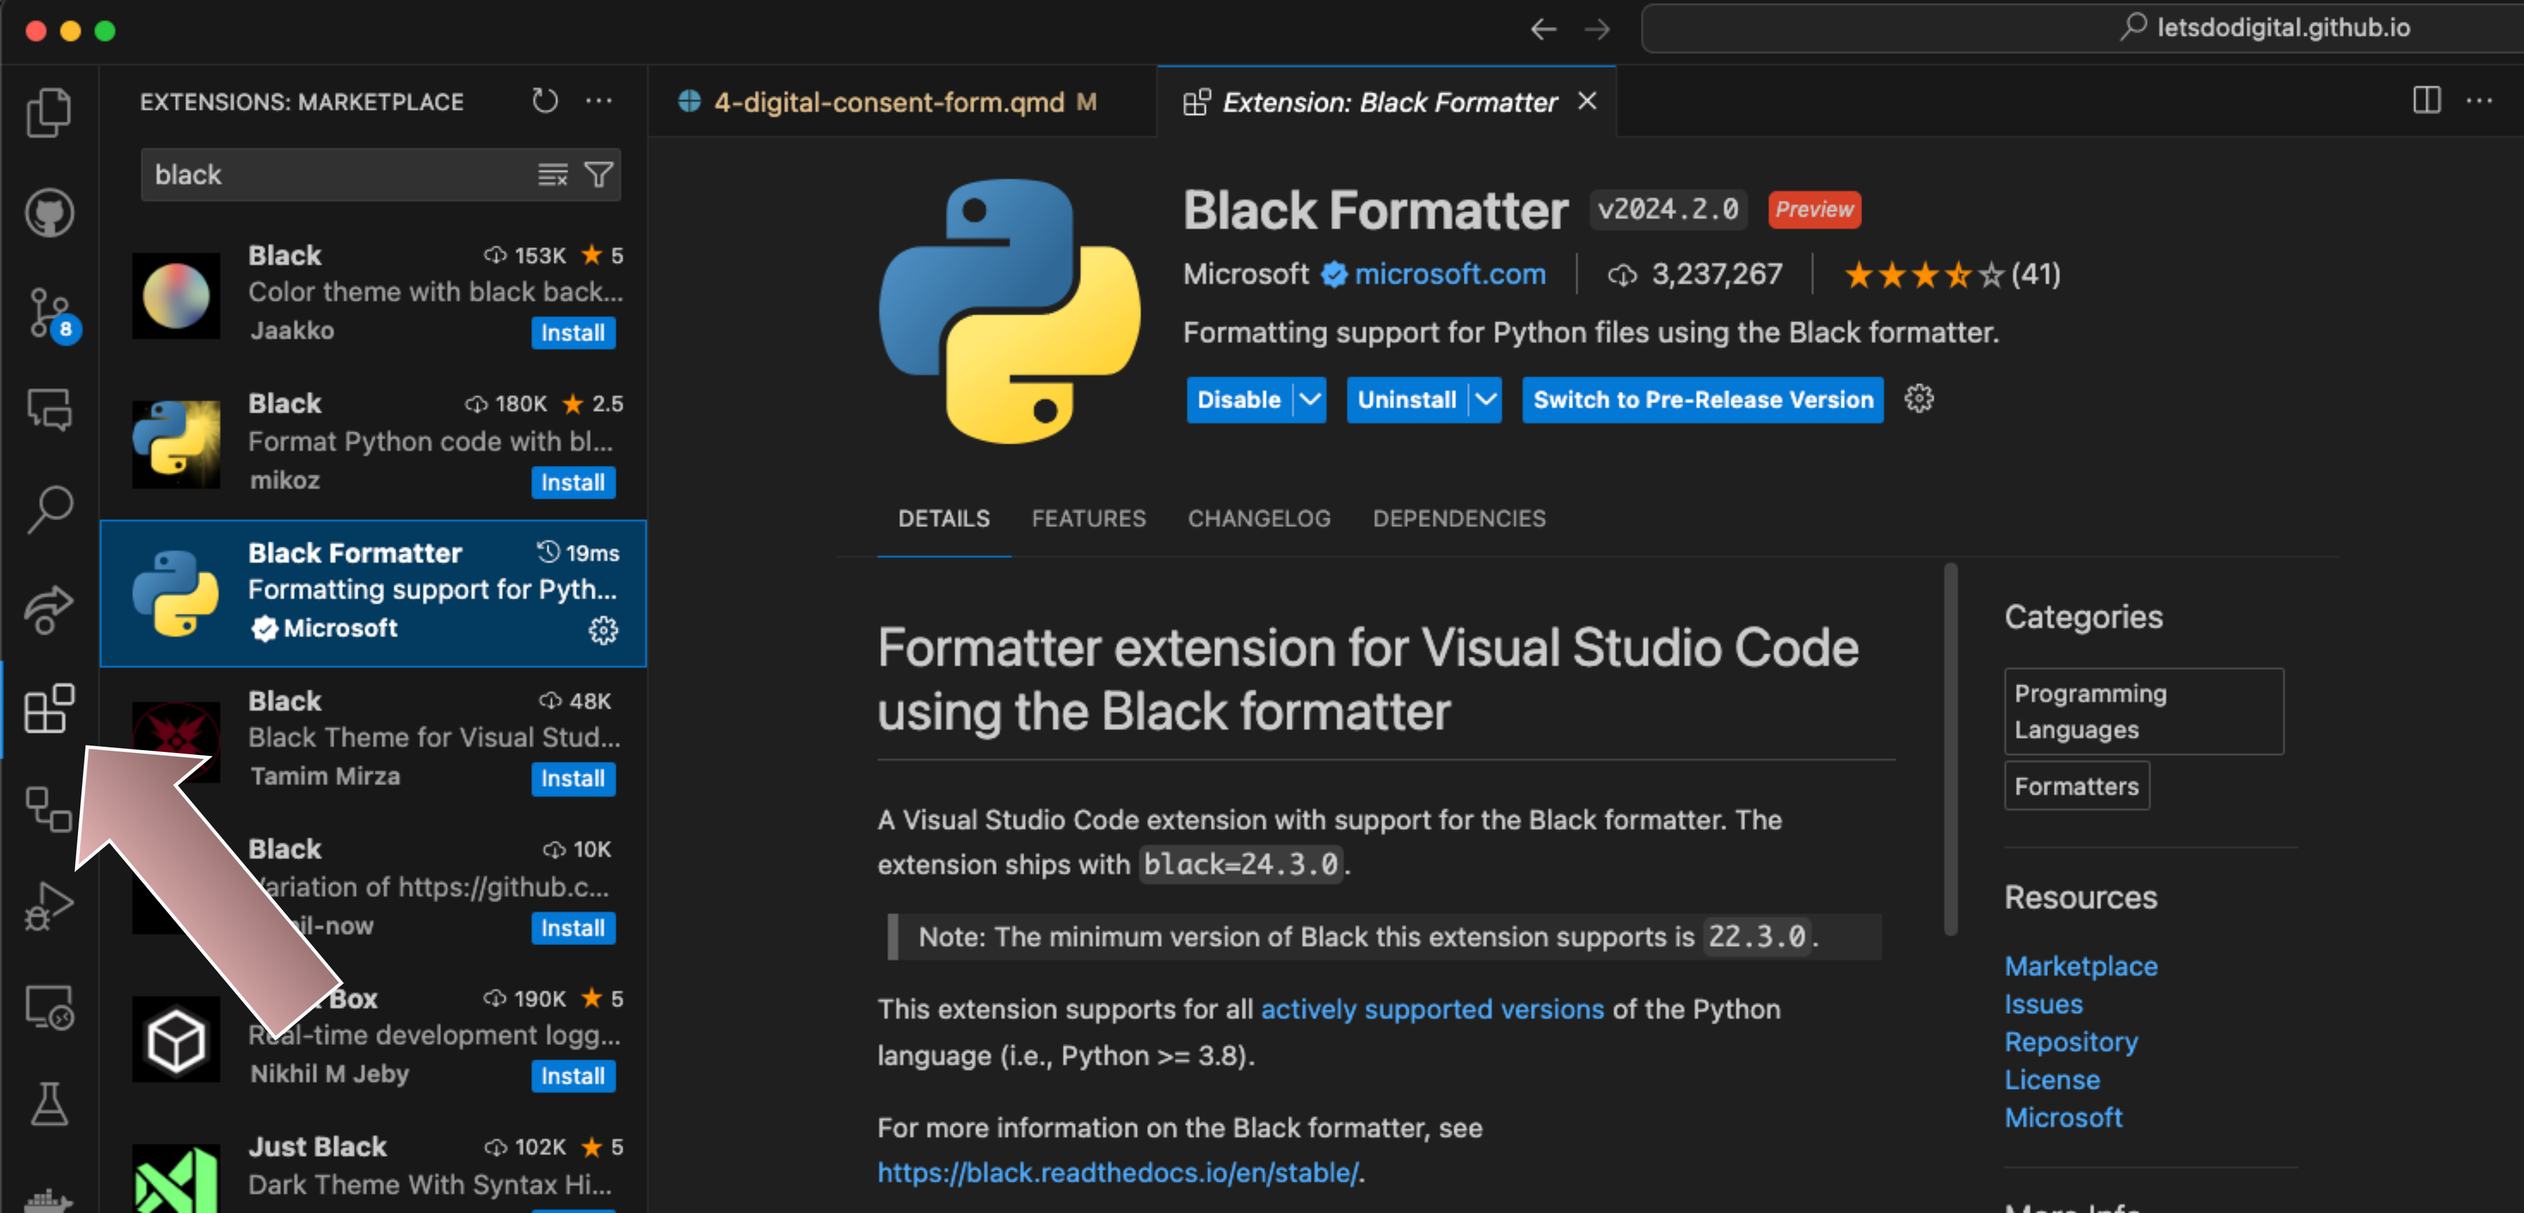
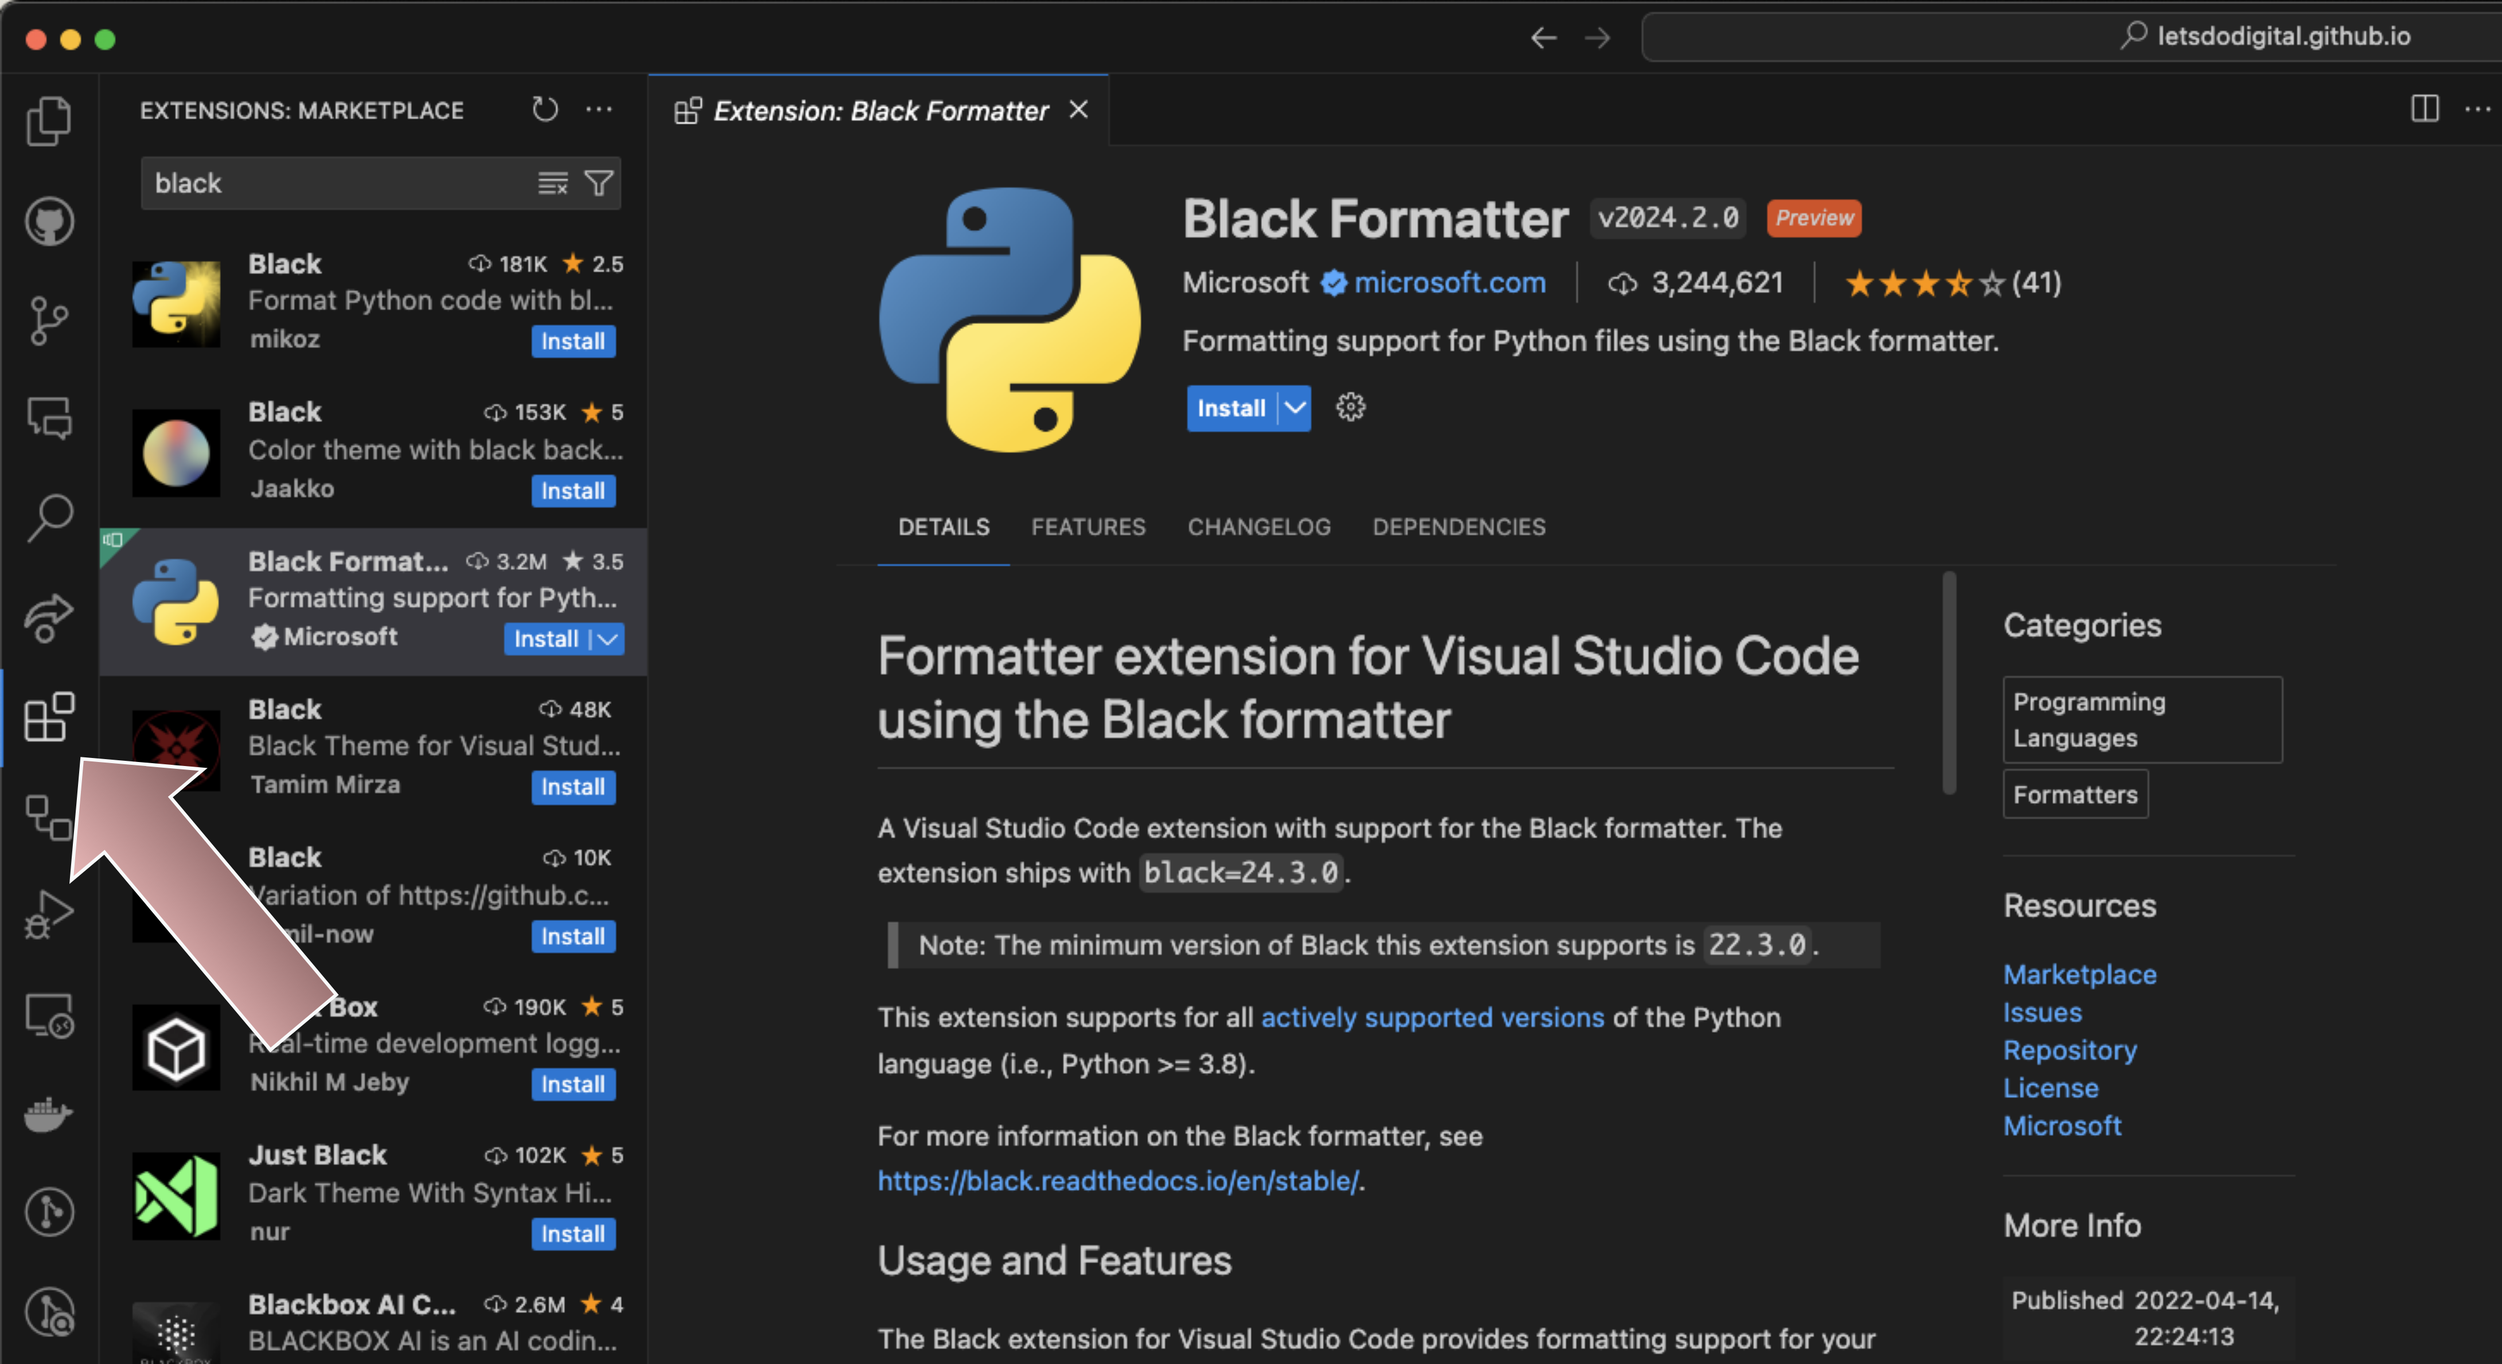
Built site for gh-pages

diff --git a/posts.html b/posts.html
@@ -220,7 +220,7 @@ window.Quarto = {
 
 <div class="quarto-listing quarto-listing-container-grid" id="listing-listing">
 <div class="list grid quarto-listing-cols-3">
-<div class="g-col-1" data-index="0" data-categories="blog" data-listing-date-sort="1721347200000" data-listing-file-modified-sort="1721747751492" data-listing-date-modified-sort="NaN" data-listing-reading-time-sort="6" data-listing-word-count-sort="1097">
+<div class="g-col-1" data-index="0" data-categories="blog" data-listing-date-sort="1721347200000" data-listing-file-modified-sort="1721750831388" data-listing-date-modified-sort="NaN" data-listing-reading-time-sort="6" data-listing-word-count-sort="1097">
 <a href="./posts/2024-07-19-when-the-anti-virus-becomes-the-virus/index.html" class="quarto-grid-link">
 <div class="quarto-grid-item card h-100 card-left">
 <p class="card-img-top">
@@ -250,7 +250,7 @@ Jul 19, 2024
 </div>
 </a>
 </div>
-<div class="g-col-1" data-index="1" data-categories="blog" data-listing-date-sort="1719878400000" data-listing-file-modified-sort="1721747751492" data-listing-date-modified-sort="NaN" data-listing-reading-time-sort="2" data-listing-word-count-sort="304">
+<div class="g-col-1" data-index="1" data-categories="blog" data-listing-date-sort="1719878400000" data-listing-file-modified-sort="1721750831388" data-listing-date-modified-sort="NaN" data-listing-reading-time-sort="2" data-listing-word-count-sort="304">
 <a href="./posts/2024-07-02-topics-for-first-10-essentials-of-health-informatics-webinars/index.html" class="quarto-grid-link">
 <div class="quarto-grid-item card h-100 card-left">
 <p class="card-img-top">
@@ -280,7 +280,7 @@ Jul 2, 2024
 </div>
 </a>
 </div>
-<div class="g-col-1" data-index="2" data-categories="blog" data-listing-date-sort="1717632000000" data-listing-file-modified-sort="1721747751492" data-listing-date-modified-sort="NaN" data-listing-reading-time-sort="2" data-listing-word-count-sort="322">
+<div class="g-col-1" data-index="2" data-categories="blog" data-listing-date-sort="1717632000000" data-listing-file-modified-sort="1721750831388" data-listing-date-modified-sort="NaN" data-listing-reading-time-sort="2" data-listing-word-count-sort="322">
 <a href="./posts/2024-06-06-handbook-of-clinical-informatics/index.html" class="quarto-grid-link">
 <div class="quarto-grid-item card h-100 card-left">
 <p class="card-img-top">
@@ -310,7 +310,7 @@ Jun 6, 2024
 </div>
 </a>
 </div>
-<div class="g-col-1" data-index="3" data-categories="blog" data-listing-date-sort="1717545600000" data-listing-file-modified-sort="1721747751492" data-listing-date-modified-sort="NaN" data-listing-reading-time-sort="11" data-listing-word-count-sort="2116">
+<div class="g-col-1" data-index="3" data-categories="blog" data-listing-date-sort="1717545600000" data-listing-file-modified-sort="1721750831388" data-listing-date-modified-sort="NaN" data-listing-reading-time-sort="11" data-listing-word-count-sort="2116">
 <a href="./posts/2024-06-05-better-than-nothing-developing-a-resource-to-support-patient-care-with-no-time-resource-or-money/index.html" class="quarto-grid-link">
 <div class="quarto-grid-item card h-100 card-left">
 <p class="card-img-top">
@@ -340,7 +340,7 @@ Jun 5, 2024
 </div>
 </a>
 </div>
-<div class="g-col-1" data-index="4" data-categories="update" data-listing-date-sort="1715644800000" data-listing-file-modified-sort="1721747751492" data-listing-date-modified-sort="NaN" data-listing-reading-time-sort="2" data-listing-word-count-sort="236">
+<div class="g-col-1" data-index="4" data-categories="update" data-listing-date-sort="1715644800000" data-listing-file-modified-sort="1721750831388" data-listing-date-modified-sort="NaN" data-listing-reading-time-sort="2" data-listing-word-count-sort="236">
 <a href="./posts/2024-05-14-student-editor-role-lets-do-digital/index.html" class="quarto-grid-link">
 <div class="quarto-grid-item card h-100 card-left">
 <p class="card-img-top">
@@ -370,7 +370,7 @@ May 14, 2024
 </div>
 </a>
 </div>
-<div class="g-col-1" data-index="5" data-categories="blog" data-listing-date-sort="1715040000000" data-listing-file-modified-sort="1721747751492" data-listing-date-modified-sort="NaN" data-listing-reading-time-sort="13" data-listing-word-count-sort="2572">
+<div class="g-col-1" data-index="5" data-categories="blog" data-listing-date-sort="1715040000000" data-listing-file-modified-sort="1721750831388" data-listing-date-modified-sort="NaN" data-listing-reading-time-sort="13" data-listing-word-count-sort="2572">
 <a href="./posts/2024-05-07-games-cheatsheets-and-the-nhs/index.html" class="quarto-grid-link">
 <div class="quarto-grid-item card h-100 card-left">
 <p class="card-img-top">
@@ -400,7 +400,7 @@ May 7, 2024
 </div>
 </a>
 </div>
-<div class="g-col-1" data-index="6" data-categories="blog" data-listing-date-sort="1713312000000" data-listing-file-modified-sort="1721747751492" data-listing-date-modified-sort="NaN" data-listing-reading-time-sort="6" data-listing-word-count-sort="1079">
+<div class="g-col-1" data-index="6" data-categories="blog" data-listing-date-sort="1713312000000" data-listing-file-modified-sort="1721750831388" data-listing-date-modified-sort="NaN" data-listing-reading-time-sort="6" data-listing-word-count-sort="1079">
 <a href="./posts/2024-04-17-why-ask-a-clinician/index.html" class="quarto-grid-link">
 <div class="quarto-grid-item card h-100 card-left">
 <p class="card-img-top">
@@ -430,7 +430,7 @@ Apr 17, 2024
 </div>
 </a>
 </div>
-<div class="g-col-1" data-index="7" data-categories="blog" data-listing-date-sort="1712707200000" data-listing-file-modified-sort="1721747751492" data-listing-date-modified-sort="NaN" data-listing-reading-time-sort="6" data-listing-word-count-sort="1165">
+<div class="g-col-1" data-index="7" data-categories="blog" data-listing-date-sort="1712707200000" data-listing-file-modified-sort="1721750831384" data-listing-date-modified-sort="NaN" data-listing-reading-time-sort="6" data-listing-word-count-sort="1165">
 <a href="./posts/2024-04-10-why-a-coding-course-and-why-now/index.html" class="quarto-grid-link">
 <div class="quarto-grid-item card h-100 card-left">
 <p class="card-img-top">
@@ -460,7 +460,7 @@ Apr 10, 2024
 </div>
 </a>
 </div>
-<div class="g-col-1" data-index="8" data-categories="Conference" data-listing-date-sort="1689120000000" data-listing-file-modified-sort="1721747751492" data-listing-date-modified-sort="NaN" data-listing-reading-time-sort="1" data-listing-word-count-sort="25">
+<div class="g-col-1" data-index="8" data-categories="Conference" data-listing-date-sort="1689120000000" data-listing-file-modified-sort="1721750831384" data-listing-date-modified-sort="NaN" data-listing-reading-time-sort="1" data-listing-word-count-sort="25">
 <a href="./posts/2023-07-12-2023-conference-is-all-done-but-more-to-come/index.html" class="quarto-grid-link">
 <div class="quarto-grid-item card h-100 card-left">
 <p class="card-img-top">
@@ -490,7 +490,7 @@ Jul 12, 2023
 </div>
 </a>
 </div>
-<div class="g-col-1" data-index="9" data-categories="Conference" data-listing-date-sort="1683244800000" data-listing-file-modified-sort="1721747751492" data-listing-date-modified-sort="NaN" data-listing-reading-time-sort="2" data-listing-word-count-sort="397">
+<div class="g-col-1" data-index="9" data-categories="Conference" data-listing-date-sort="1683244800000" data-listing-file-modified-sort="1721750831384" data-listing-date-modified-sort="NaN" data-listing-reading-time-sort="2" data-listing-word-count-sort="397">
 <a href="./posts/2023-03-31-chatgpt-kubernete/index.html" class="quarto-grid-link">
 <div class="quarto-grid-item card h-100 card-left">
 <p class="card-img-top">
@@ -520,7 +520,7 @@ May 5, 2023
 </div>
 </a>
 </div>
-<div class="g-col-1" data-index="10" data-categories="Conference" data-listing-date-sort="1683244800000" data-listing-file-modified-sort="1721747751492" data-listing-date-modified-sort="NaN" data-listing-reading-time-sort="2" data-listing-word-count-sort="292">
+<div class="g-col-1" data-index="10" data-categories="Conference" data-listing-date-sort="1683244800000" data-listing-file-modified-sort="1721750831384" data-listing-date-modified-sort="NaN" data-listing-reading-time-sort="2" data-listing-word-count-sort="292">
 <a href="./posts/2023-05-05-lets-talk-digital-conference-2023-fast-approaching/index.html" class="quarto-grid-link">
 <div class="quarto-grid-item card h-100 card-left">
 <p class="card-img-top">
@@ -550,7 +550,7 @@ May 5, 2023
 </div>
 </a>
 </div>
-<div class="g-col-1" data-index="11" data-categories="Careers" data-listing-date-sort="1670198400000" data-listing-file-modified-sort="1721747751492" data-listing-date-modified-sort="NaN" data-listing-reading-time-sort="5" data-listing-word-count-sort="947">
+<div class="g-col-1" data-index="11" data-categories="Careers" data-listing-date-sort="1670198400000" data-listing-file-modified-sort="1721750831384" data-listing-date-modified-sort="NaN" data-listing-reading-time-sort="5" data-listing-word-count-sort="947">
 <a href="./posts/2022-12-05-lets-talk-about-careers-in-clinical-informatics-and-white-swans/index.html" class="quarto-grid-link">
 <div class="quarto-grid-item card h-100 card-left">
 <p class="card-img-top">
@@ -580,7 +580,7 @@ Dec 5, 2022
 </div>
 </a>
 </div>
-<div class="g-col-1" data-index="12" data-categories="Conference" data-listing-date-sort="1665360000000" data-listing-file-modified-sort="1721747751492" data-listing-date-modified-sort="NaN" data-listing-reading-time-sort="1" data-listing-word-count-sort="80">
+<div class="g-col-1" data-index="12" data-categories="Conference" data-listing-date-sort="1665360000000" data-listing-file-modified-sort="1721750831384" data-listing-date-modified-sort="NaN" data-listing-reading-time-sort="1" data-listing-word-count-sort="80">
 <a href="./posts/2022-10-10-lets-talk-digital-2023-conference-15th-of-june/index.html" class="quarto-grid-link">
 <div class="quarto-grid-item card h-100 card-left">
 <p class="card-img-top">
@@ -610,7 +610,7 @@ Oct 10, 2022
 </div>
 </a>
 </div>
-<div class="g-col-1" data-index="13" data-categories="Education" data-listing-date-sort="1663286400000" data-listing-file-modified-sort="1721747751492" data-listing-date-modified-sort="NaN" data-listing-reading-time-sort="1" data-listing-word-count-sort="168">
+<div class="g-col-1" data-index="13" data-categories="Education" data-listing-date-sort="1663286400000" data-listing-file-modified-sort="1721750831384" data-listing-date-modified-sort="NaN" data-listing-reading-time-sort="1" data-listing-word-count-sort="168">
 <a href="./posts/2022-09-16-msc-in-health-tech-underway/index.html" class="quarto-grid-link">
 <div class="quarto-grid-item card h-100 card-left">
 <p class="card-img-top">
@@ -640,7 +640,7 @@ Sep 16, 2022
 </div>
 </a>
 </div>
-<div class="g-col-1" data-index="14" data-categories="Webinar" data-listing-date-sort="1662336000000" data-listing-file-modified-sort="1721747751492" data-listing-date-modified-sort="NaN" data-listing-reading-time-sort="1" data-listing-word-count-sort="73">
+<div class="g-col-1" data-index="14" data-categories="Webinar" data-listing-date-sort="1662336000000" data-listing-file-modified-sort="1721750831384" data-listing-date-modified-sort="NaN" data-listing-reading-time-sort="1" data-listing-word-count-sort="73">
 <a href="./posts/2022-09-05-2nd-quarterly-meeting-21-10-22-11am/index.html" class="quarto-grid-link">
 <div class="quarto-grid-item card h-100 card-left">
 <p class="card-img-top">
@@ -670,7 +670,7 @@ Sep 5, 2022
 </div>
 </a>
 </div>
-<div class="g-col-1" data-index="15" data-categories="Pilot" data-listing-date-sort="1658361600000" data-listing-file-modified-sort="1721747751492" data-listing-date-modified-sort="NaN" data-listing-reading-time-sort="1" data-listing-word-count-sort="55">
+<div class="g-col-1" data-index="15" data-categories="Pilot" data-listing-date-sort="1658361600000" data-listing-file-modified-sort="1721750831384" data-listing-date-modified-sort="NaN" data-listing-reading-time-sort="1" data-listing-word-count-sort="55">
 <a href="./posts/2022-07-21-spiritum-duo-lets-do-digital-pilot/index.html" class="quarto-grid-link">
 <div class="quarto-grid-item card h-100 card-left">
 <p class="card-img-top">
@@ -700,7 +700,7 @@ Jul 21, 2022
 </div>
 </a>
 </div>
-<div class="g-col-1" data-index="16" data-categories="Future plans" data-listing-date-sort="1658188800000" data-listing-file-modified-sort="1721747751492" data-listing-date-modified-sort="NaN" data-listing-reading-time-sort="2" data-listing-word-count-sort="211">
+<div class="g-col-1" data-index="16" data-categories="Future plans" data-listing-date-sort="1658188800000" data-listing-file-modified-sort="1721750831384" data-listing-date-modified-sort="NaN" data-listing-reading-time-sort="2" data-listing-word-count-sort="211">
 <a href="./posts/2022-07-19-lets-do-digital-the-start-of-a-new-beginning/index.html" class="quarto-grid-link">
 <div class="quarto-grid-item card h-100 card-left">
 <p class="card-img-top">
@@ -730,7 +730,7 @@ Jul 19, 2022
 </div>
 </a>
 </div>
-<div class="g-col-1" data-index="17" data-categories="Quarterly meeting" data-listing-date-sort="1657843200000" data-listing-file-modified-sort="1721747751492" data-listing-date-modified-sort="NaN" data-listing-reading-time-sort="1" data-listing-word-count-sort="98">
+<div class="g-col-1" data-index="17" data-categories="Quarterly meeting" data-listing-date-sort="1657843200000" data-listing-file-modified-sort="1721750831384" data-listing-date-modified-sort="NaN" data-listing-reading-time-sort="1" data-listing-word-count-sort="98">
 <a href="./posts/2022-07-15-first-lets-do-digital-quarterly-meeting-15-07-2022/index.html" class="quarto-grid-link">
 <div class="quarto-grid-item card h-100 card-left">
 <p class="card-img-top">

diff --git a/conferences/2024/agenda.html b/conferences/2024/agenda.html
@@ -217,14 +217,14 @@ ul.task-list li input[type="checkbox"] {
         </div>
     </div>
 </div>
-<p>9:50 – <strong>Shared care record in BOB</strong></p>
+<p>9:50 – <strong>Better than nothing - a case study of limitations developing a resource sharing hub for primary and secondary care</strong></p>
 <div class="agenda-container-small">
     <div class="agenda-row">
         <div class="agenda-image-container-small">
             <img src="../../media/nadia-kuftinoff-circle.png" alt="picture of Nadia Kuftinoff" class="agenda-image-small">
         </div>
         <div class="agenda-text-container">
-            Nadia Kuftinoff - Senior Digital Delivery Lead, Buckinghamshire, Oxfordshire &amp; West Berkshire ICB
+            Nadia Kuftinoff - Senior Digital Delivery Lead, Buckinghamshire, Oxfordshire &amp; Berkshire West ICB
         </div>
     </div>
 </div>

diff --git a/learn/learn-python/module-2/4-digital-consent-form.html b/learn/learn-python/module-2/4-digital-consent-form.html
@@ -459,7 +459,7 @@ Let’s Do Digital Team
 <h2>We need some extensions</h2>
 <ul>
 <li>Python</li>
-<li>Black</li>
+<li>Black formatter</li>
 </ul>
 </section>
 <section id="python-extension" class="slide level2">
